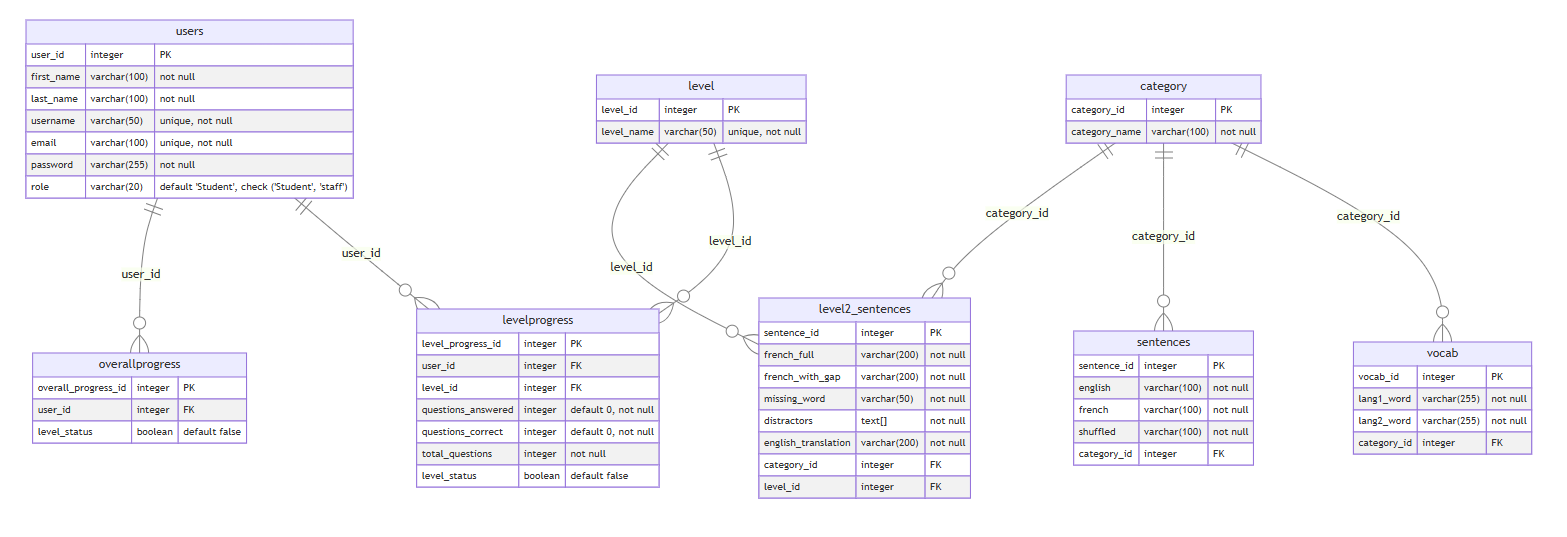
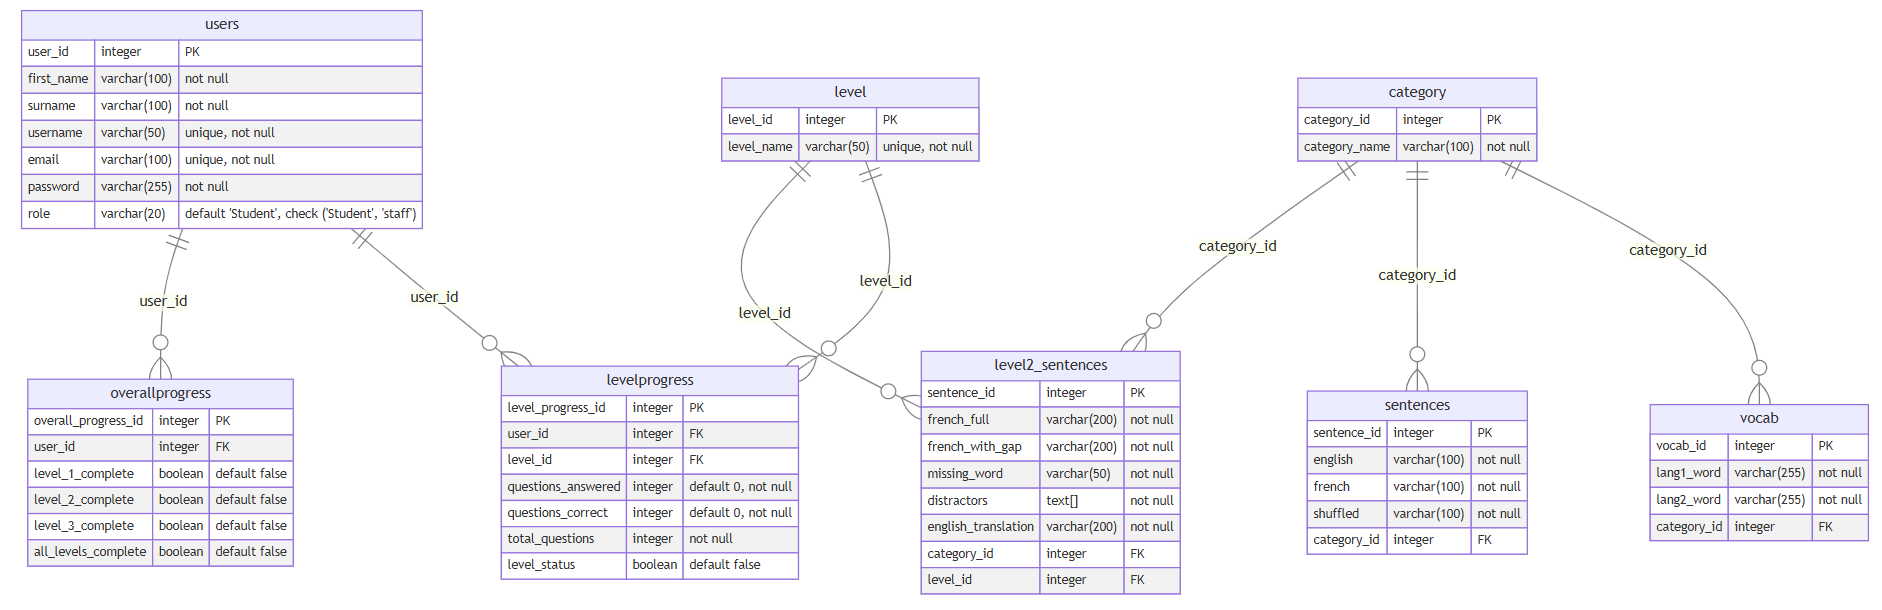
new database schema

diff --git a/frontend/mermaidErd.html b/frontend/mermaidErd.html
@@ -24,7 +24,7 @@ erDiagram
     users {
         user_id integer "PK"
         first_name varchar(100) "not null"
-        last_name varchar(100) "not null"
+        surname varchar(100) "not null"
         username varchar(50) "unique, not null"
         email varchar(100) "unique, not null"
         password varchar(255) "not null"
@@ -72,7 +72,10 @@ erDiagram
     overallprogress {
         overall_progress_id integer "PK"
         user_id integer "FK"
-        level_status boolean "default false"
+        level_1_complete boolean "default false"
+        level_2_complete boolean "default false"
+        level_3_complete boolean "default false"
+        all_levels_complete boolean "default false"
     }
 
     sentences {
@@ -82,7 +85,6 @@ erDiagram
         shuffled varchar(100) "not null"
         category_id integer "FK"
     }
-
   </pre>
 </body>
 </html>
